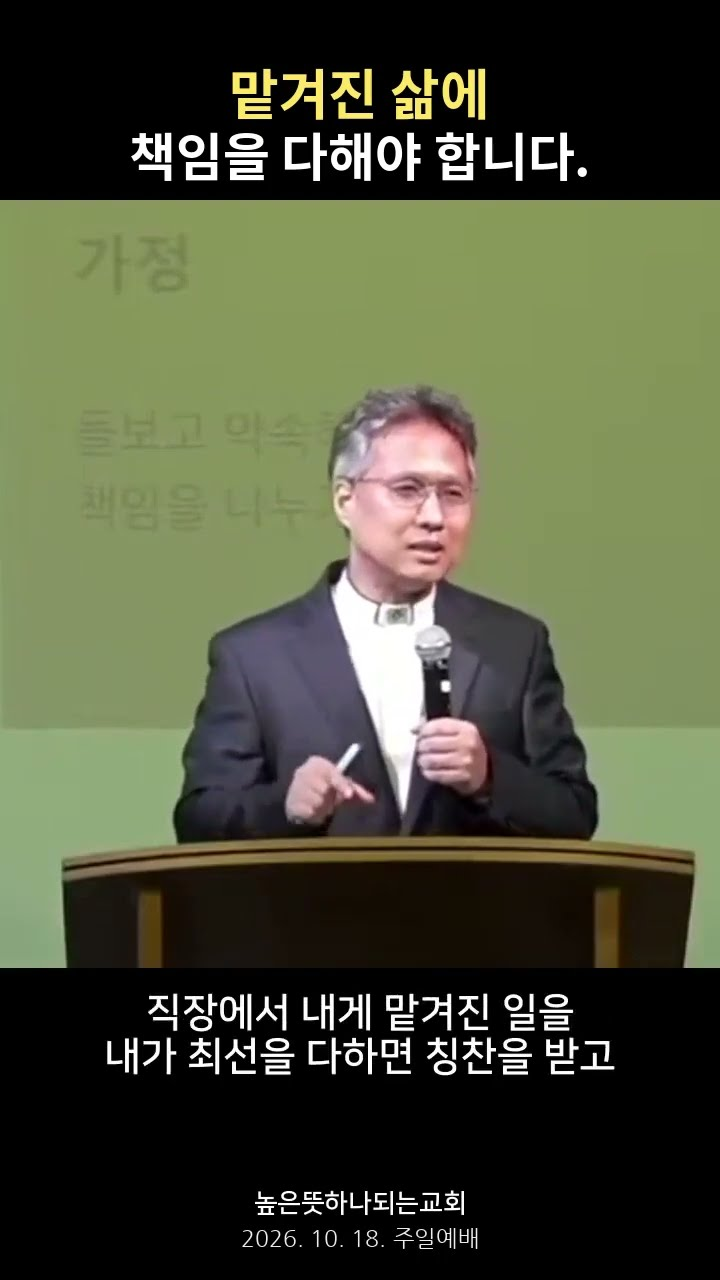
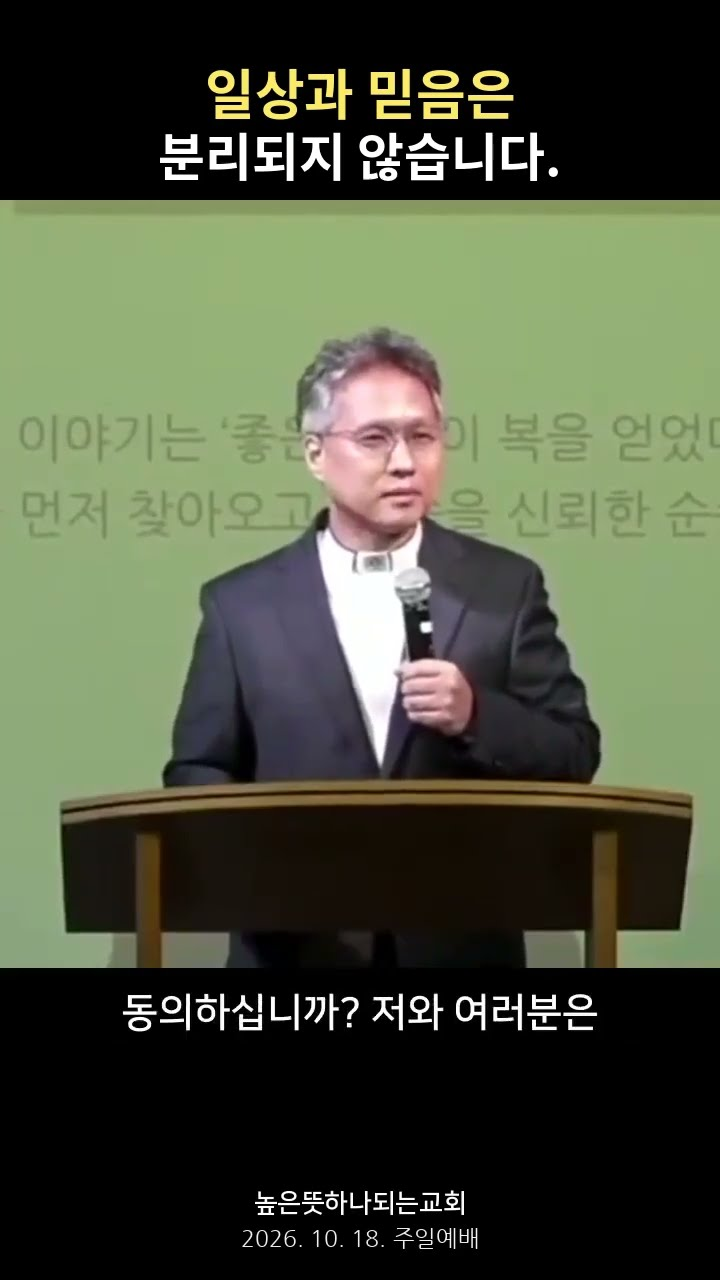
설교 영상 자동 갱신

diff --git a/index.html b/index.html
@@ -158,14 +158,14 @@
         </div>
         <div class="latest latest-short">
 <!-- shorts:start (매주 자동 갱신 — .github/scripts/update_sermon.py) -->
-          <a class="thumb thumb-short" href="https://www.youtube.com/shorts/taqcZdrESFM" target="_blank" rel="noopener" aria-label="설교 숏츠 보기 (유튜브)">
-            <img class="thumb-img" src="images/shorts-thumb.jpg?v=taqcZdrESFM" alt="" loading="lazy" onload="this.parentNode.classList.add('has-img')" onerror="this.remove()">
+          <a class="thumb thumb-short" href="https://www.youtube.com/shorts/G1ZQctHhbMY" target="_blank" rel="noopener" aria-label="설교 숏츠 보기 (유튜브)">
+            <img class="thumb-img" src="images/shorts-thumb.jpg?v=G1ZQctHhbMY" alt="" loading="lazy" onload="this.parentNode.classList.add('has-img')" onerror="this.remove()">
             <span class="thumb-date">1분 메시지</span>
-            <strong>그리스도인의 책임감</strong>
+            <strong>일상과 믿음은 분리되지 않습니다.</strong>
             <span class="thumb-meta">높은뜻 하나되는 교회</span>
             <span class="play" aria-hidden="true"><svg width="22" height="22" viewBox="0 0 24 24"><path d="M8 5v14l11-7z" fill="currentColor"/></svg></span>
           </a>
-          <h2 class="latest-title">[1분 메시지] 그리스도인의 책임감</h2>
+          <h2 class="latest-title">[1분 메시지] 일상과 믿음은 분리되지 않습니다.</h2>
 <!-- shorts:end -->
           <div class="latest-btns"><a class="more more-pill" href="https://www.youtube.com/@Godwillhanachurch/shorts" target="_blank" rel="noopener">1분 메시지 더보기</a></div>
         </div>
